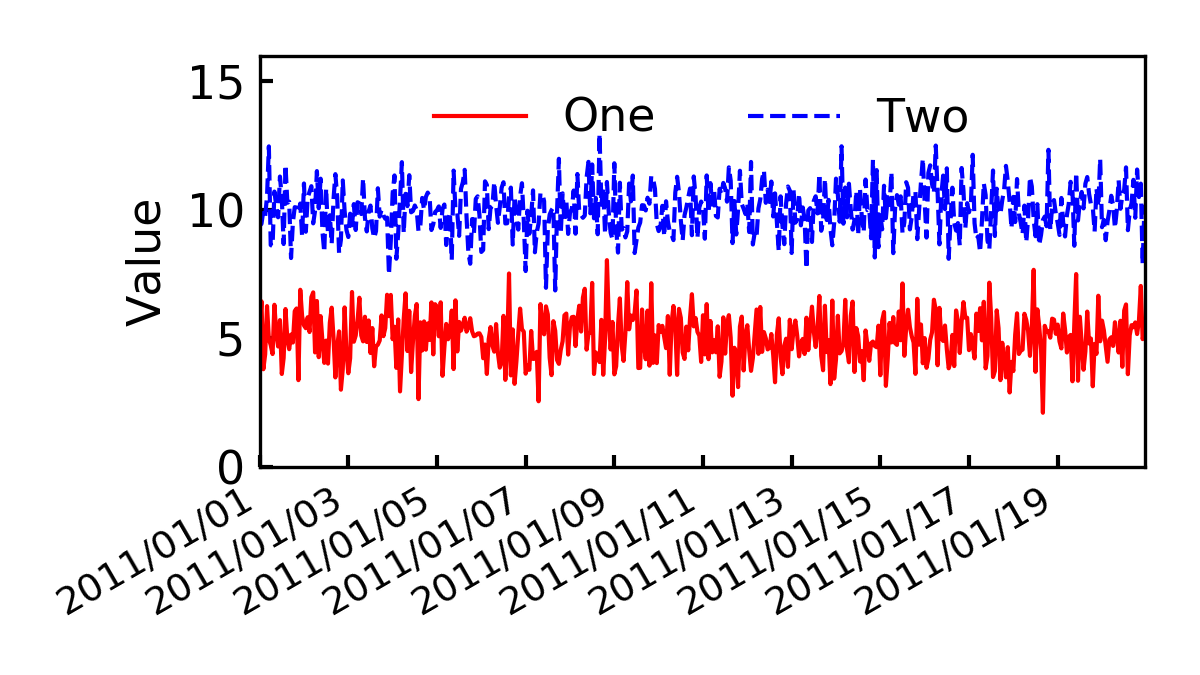
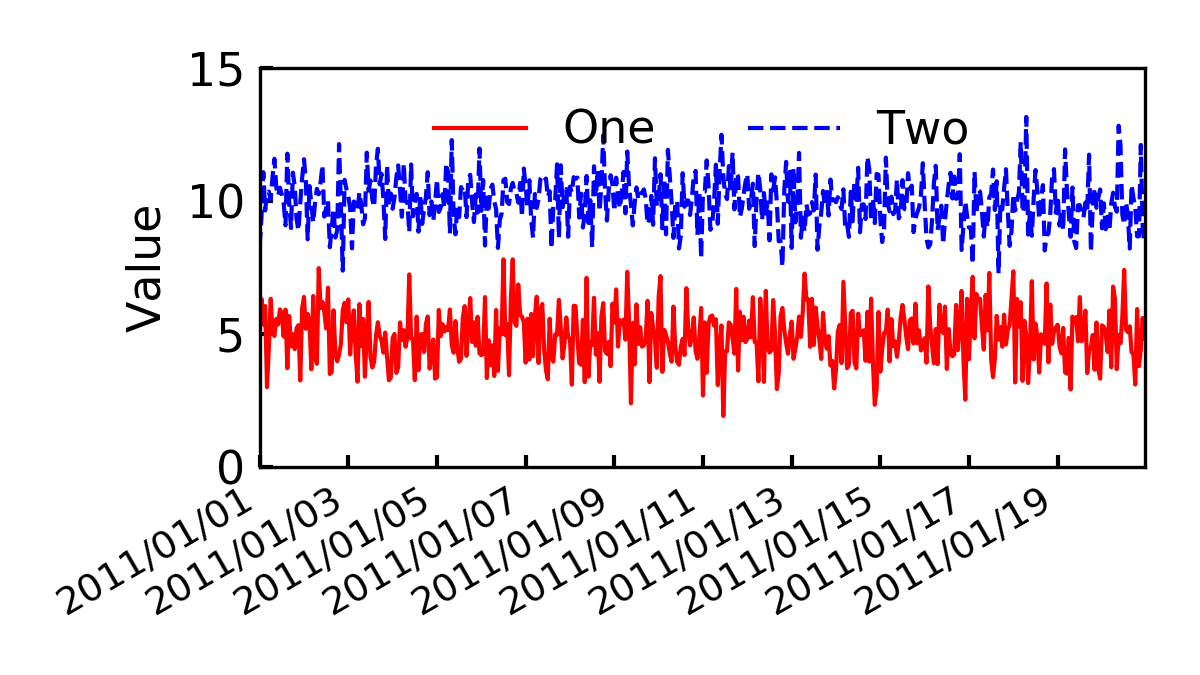
show how low or high in limits can be None

Changed region(s): [[0.0925, 0.0622, 0.9558, 0.6222]]

diff --git a/examples/plot_example.py b/examples/plot_example.py
@@ -62,7 +62,7 @@ ts2 = pd.Series(np.random.randn(len(rng)), index=rng) + 10
 fastplot.plot( [('One', ts), ('Two', ts2)] , 'examples/7_timeseries_multi.png',
                mode='timeseries_multi', ylabel = 'Value', xticks_rotate=30,
                legend = True, legend_loc='upper center', legend_ncol=2, legend_frameon=False,
-               ylim = (0,16), xticks_fontsize='small')
+               ylim = (0,None), xticks_fontsize='small')
 
 
 

diff --git a/README.md b/README.md
@@ -95,8 +95,8 @@ The modes are the type of plots fastplot allows to use. Some are simple (just a 
 * `yscale`: scale for y axis (linear/log). Default `linear`
          
 **Axis**
-* `xlim`: Optional x limit, as a tuple (low, high)
-* `ylim`: Optional y limit, as a tuple (low, high)
+* `xlim`: Optional x limit, as a tuple (low, high). You can set `low` or `high` to `None` if you don't want to modify it.
+* `ylim`: Optional y limit, as a tuple (low, high). You can set `low` or `high` to `None` if you don't want to modify it.
 * `xlabel`: Label for x axis
 * `ylabel`: Label for y axis
 * `xticks`: Custom x ticks, in the form ([x1, x2, ...], [label1, label2, ...])
@@ -216,7 +216,7 @@ ts2 = pd.Series(np.random.randn(len(rng)), index=rng) + 10
 fastplot.plot( [('One', ts), ('Two', ts2)] , 'examples/7_timeseries_multi.png',
                mode='timeseries_multi', ylabel = 'Value', xticks_rotate=30,
                legend = True, legend_loc='upper center', legend_ncol=2, legend_frameon=False,
-               ylim = (0,16), xticks_fontsize='small')
+               ylim = (0,None), xticks_fontsize='small')
 ```
 <img src="https://github.com/marty90/fastplot/raw/master/examples/7_timeseries_multi.png"  height="200">
 
